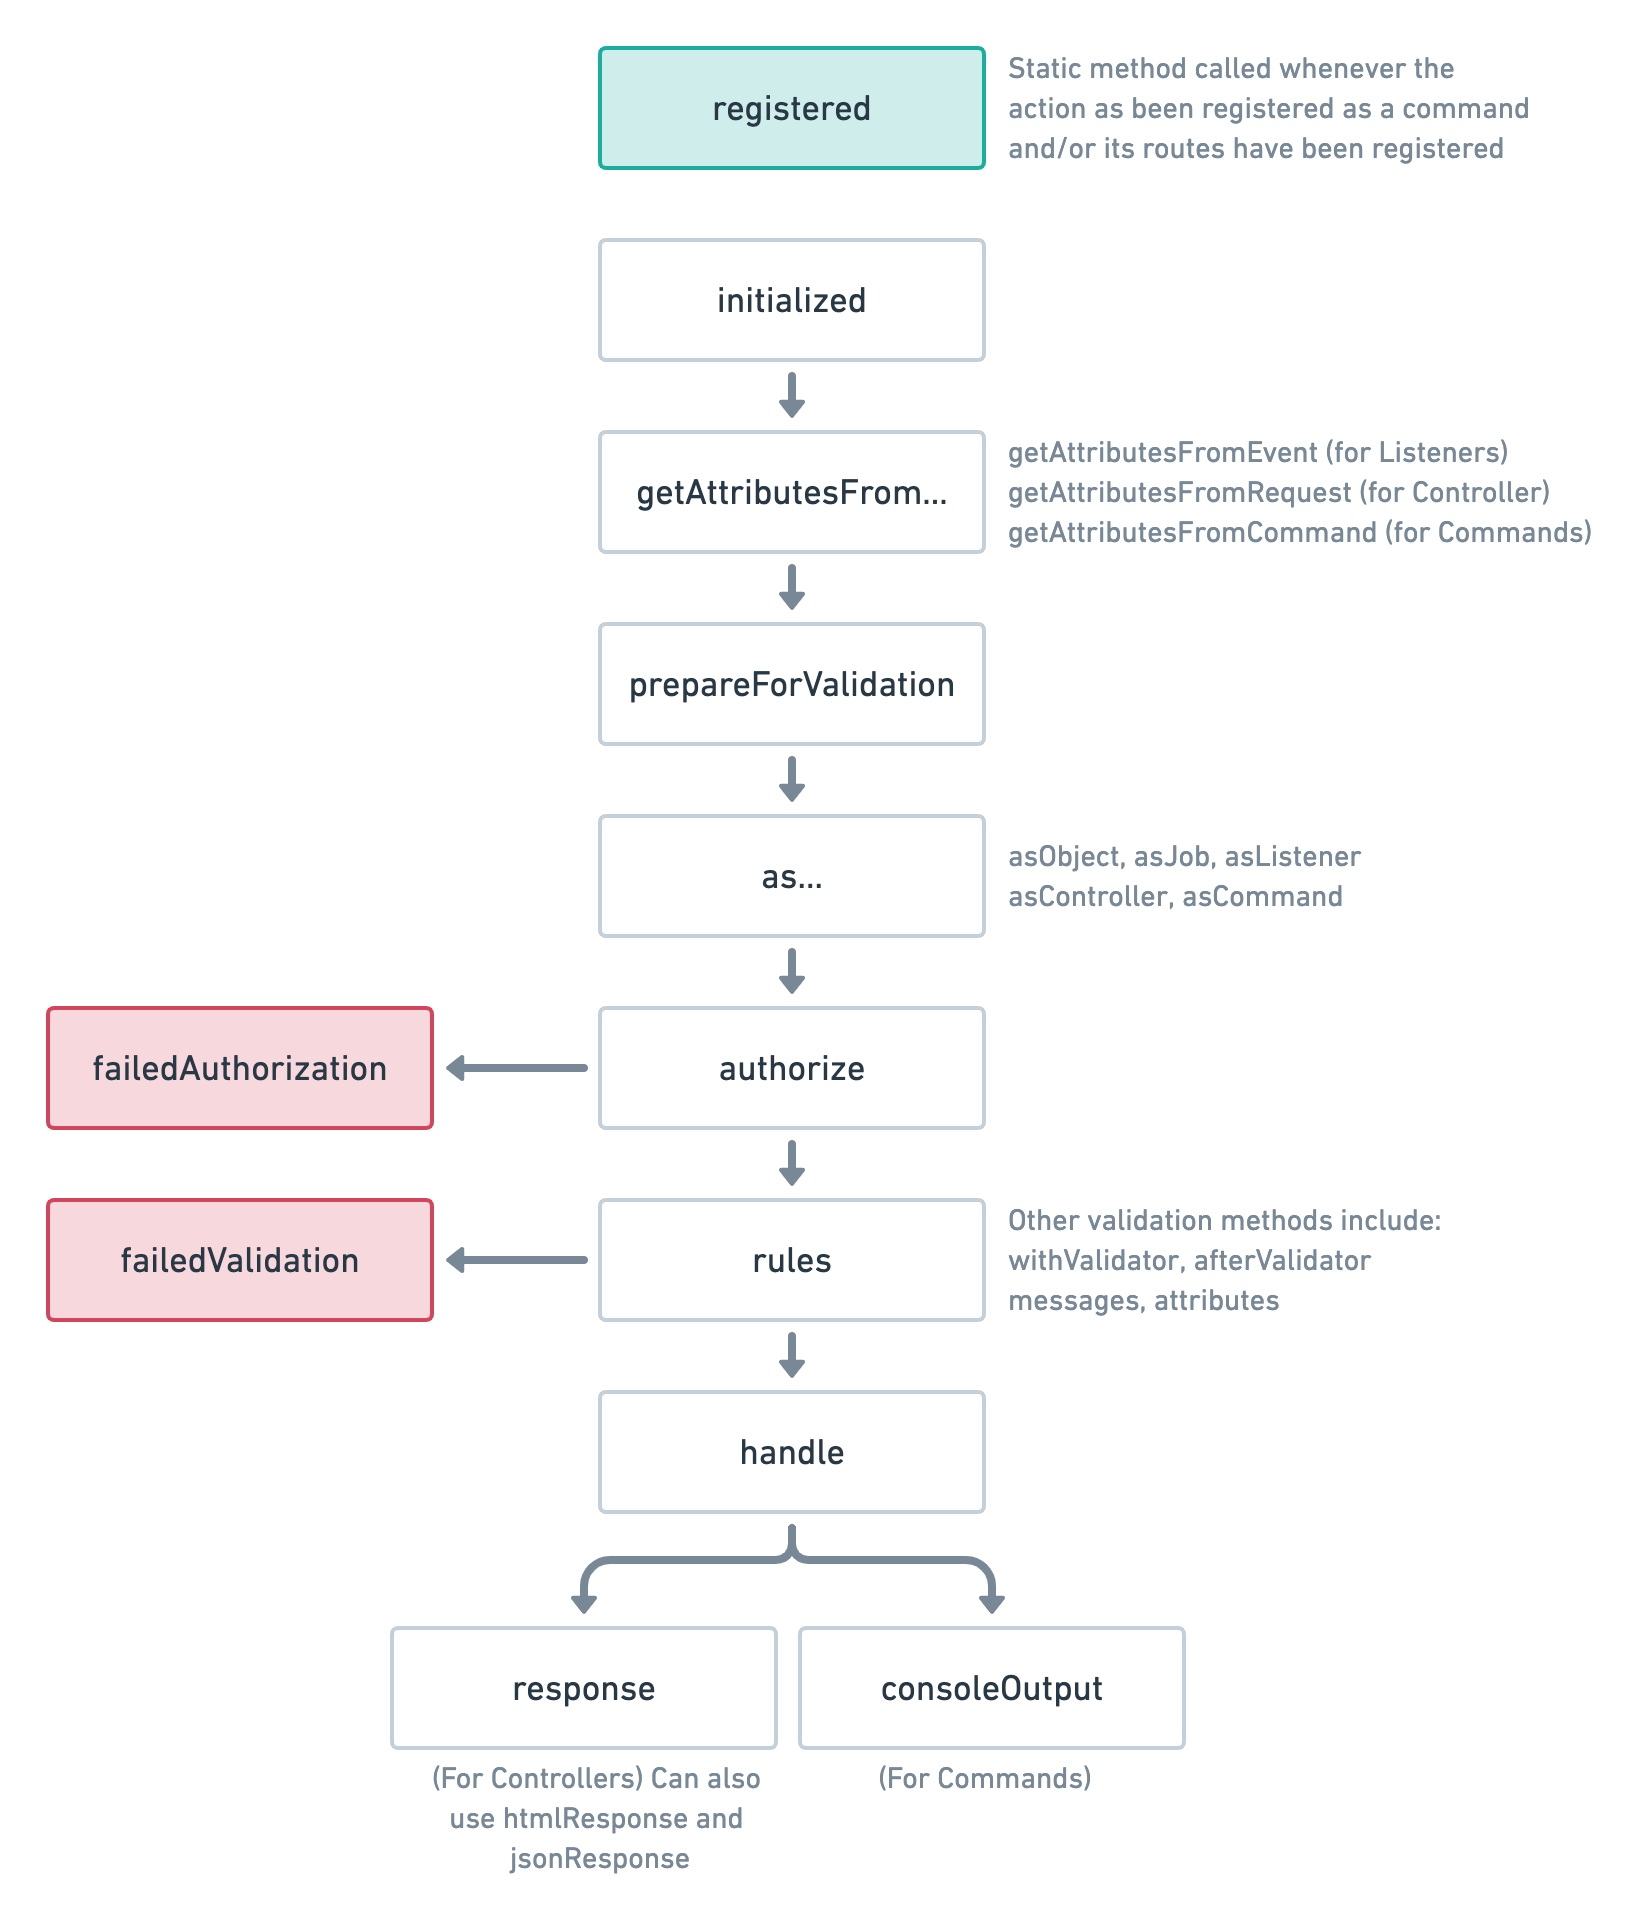
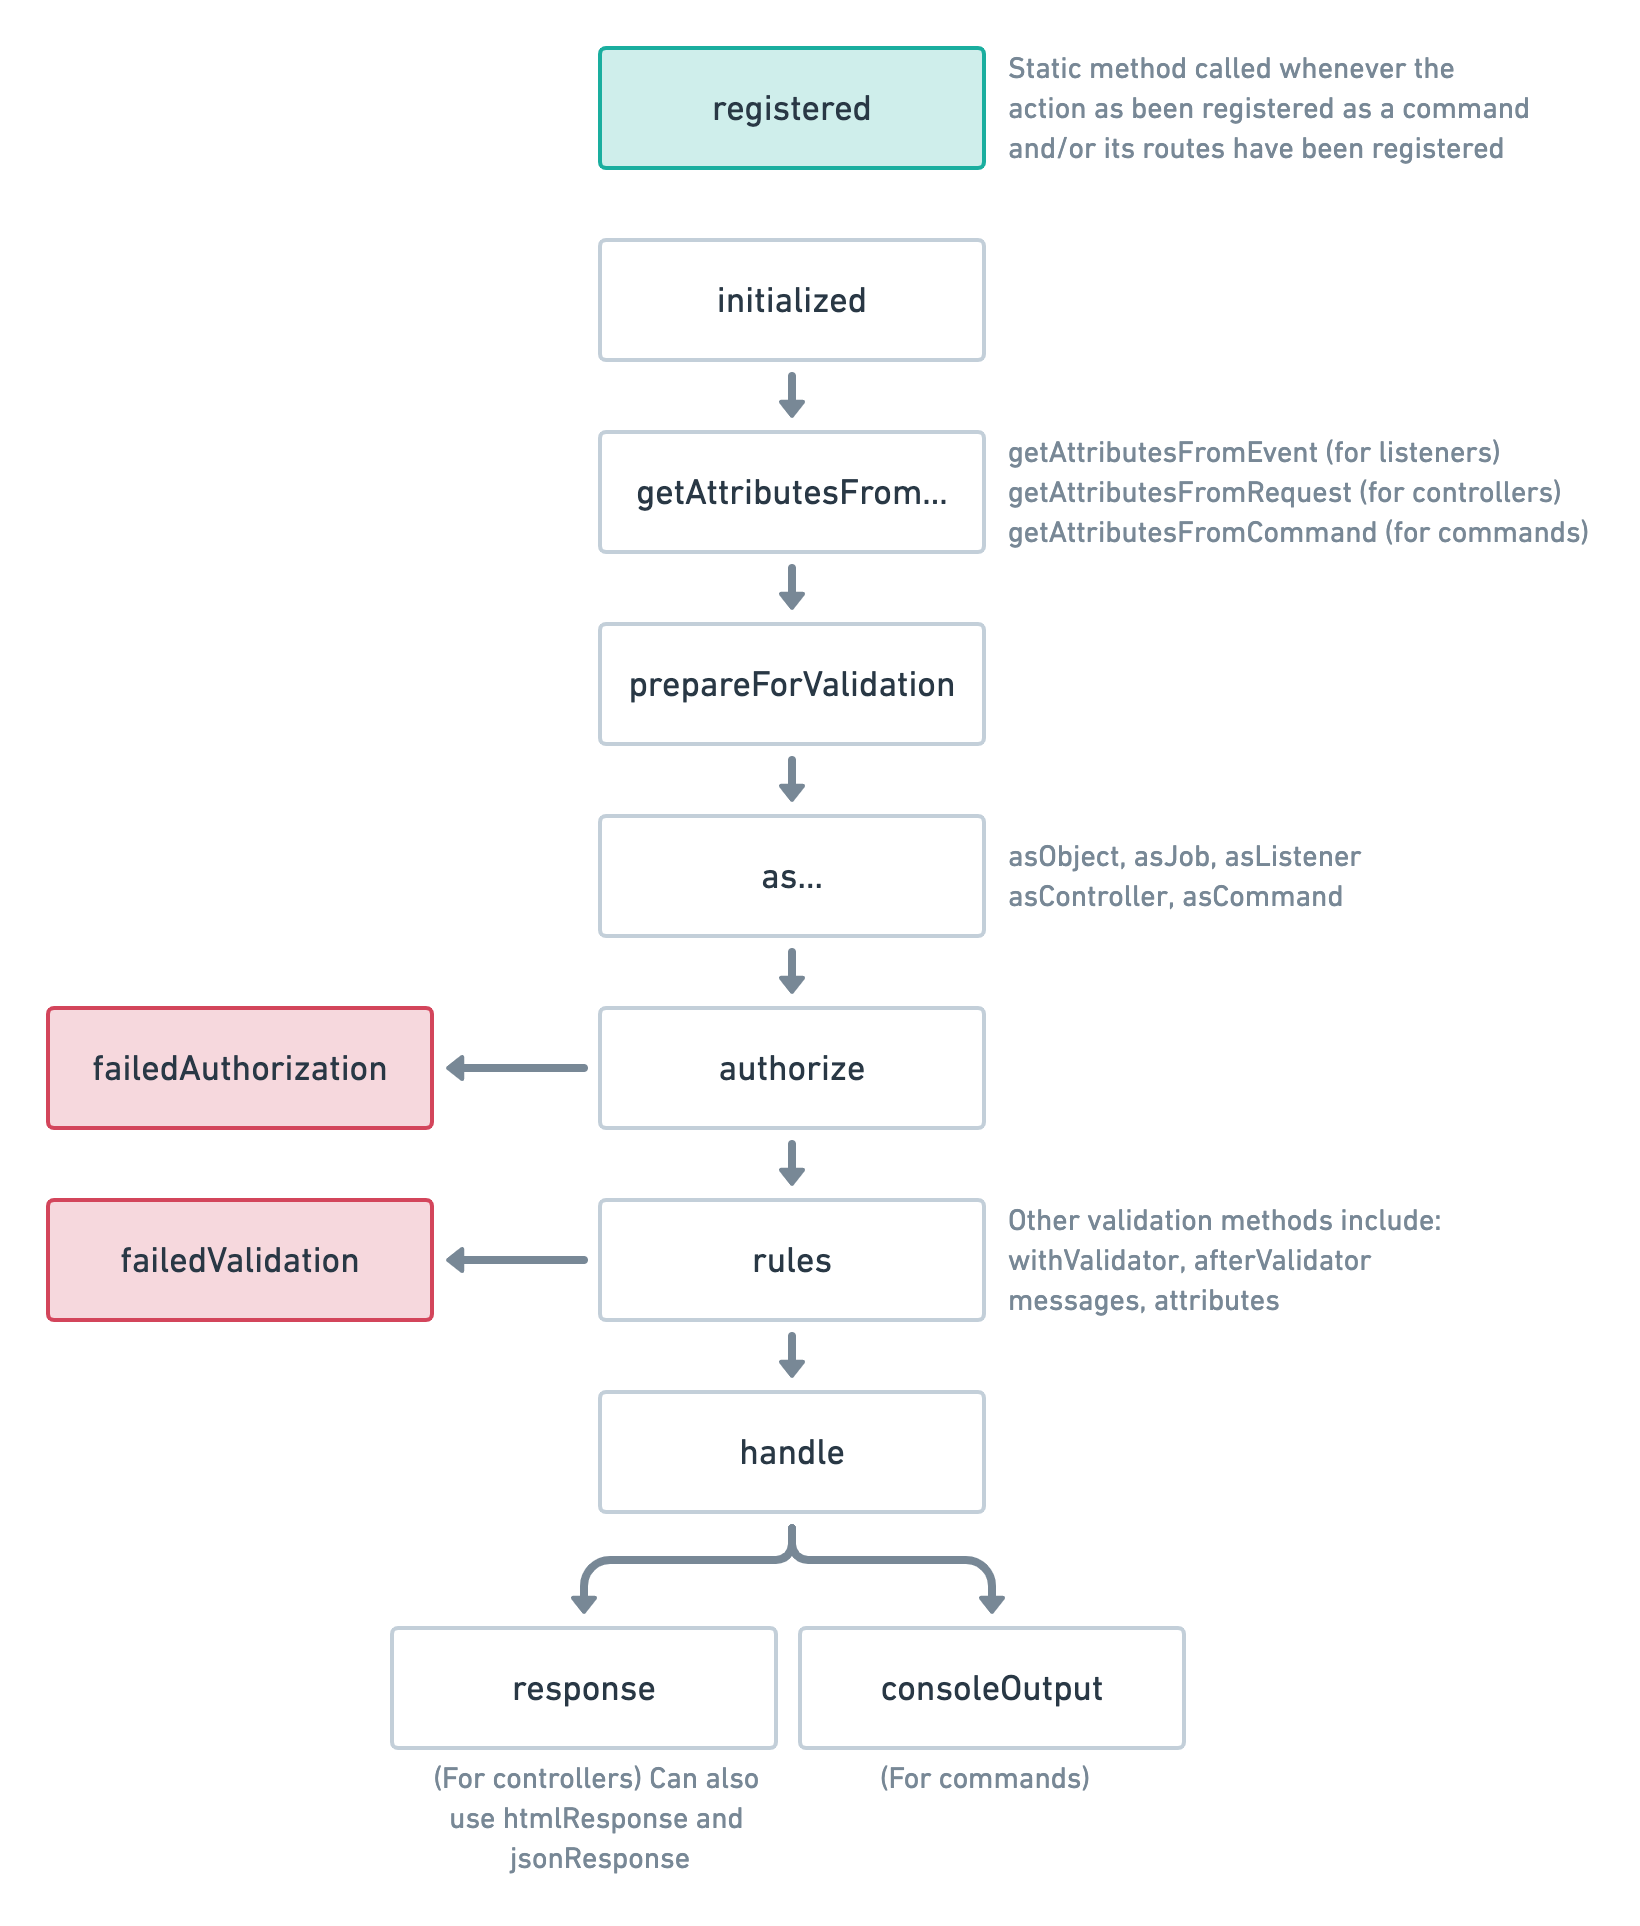
Update lifecycle diagram

diff --git a/action-lifecycle.md b/action-lifecycle.md
@@ -34,11 +34,11 @@ Similar to the `prepareForValidation` method but different methods will be trigg
 - `asController`
 - `asCommand`
 
-### `authorize`
+### `authorize` and `failedAuthorization`
 
 Can be used to provide authorisation logic. See the "[Authorisation](/authorisation)" page.
 
-### `rules` and other validation methods
+### `rules`, `failedValidation` and other validation methods
 
 Can be used to provide validation logic. See the "[Validation](/validation)" page.
 
